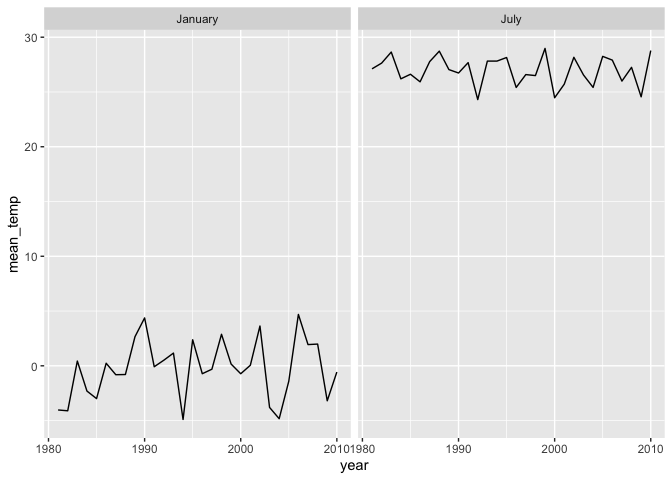
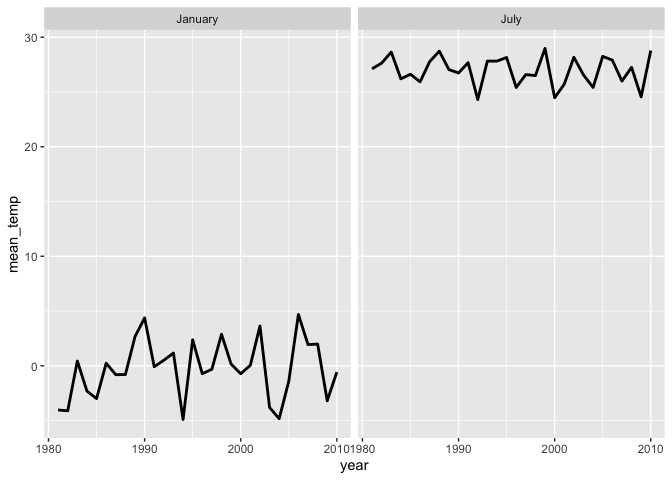
prb3-2 complete

diff --git a/p8105_hw3_jck2183.md b/p8105_hw3_jck2183.md
@@ -247,6 +247,10 @@ noaa_df <- ny_noaa %>%
          year = as.integer(year))
 ```
 
+For snowfall, the most commonly observed values are 0, as the snowfall
+only occurred when the temperature is low enough and the humidity is
+abundant enough.
+
   - Make a two-panel plot showing the average max temperature in January
     and in July in each station across years. Is there any observable /
     interpretable structure? Any outliers?
@@ -259,7 +263,7 @@ noaa_df %>%
   group_by(year, month) %>% 
   summarise(mean_temp = mean(tmax, na.rm = TRUE)) %>% 
   ggplot(aes(x = year, y = mean_temp)) +
-  geom_line() +
+  geom_line(size = 1) +
   facet_grid(.~ month)
 ```
 
@@ -283,3 +287,7 @@ noaa_df %>%
     ## Warning: Continuous x aesthetic -- did you forget aes(group=...)?
 
 ![](p8105_hw3_jck2183_files/figure-gfm/unnamed-chunk-10-2.png)<!-- -->
+Based on the plots, we can see that the average max temperature in
+January is around 0-5 degree Celsius; while in July, the average
+temperature is among 25-30 degree of Celsius. There is no significant
+outlier in both of the snowfall in January and July.
